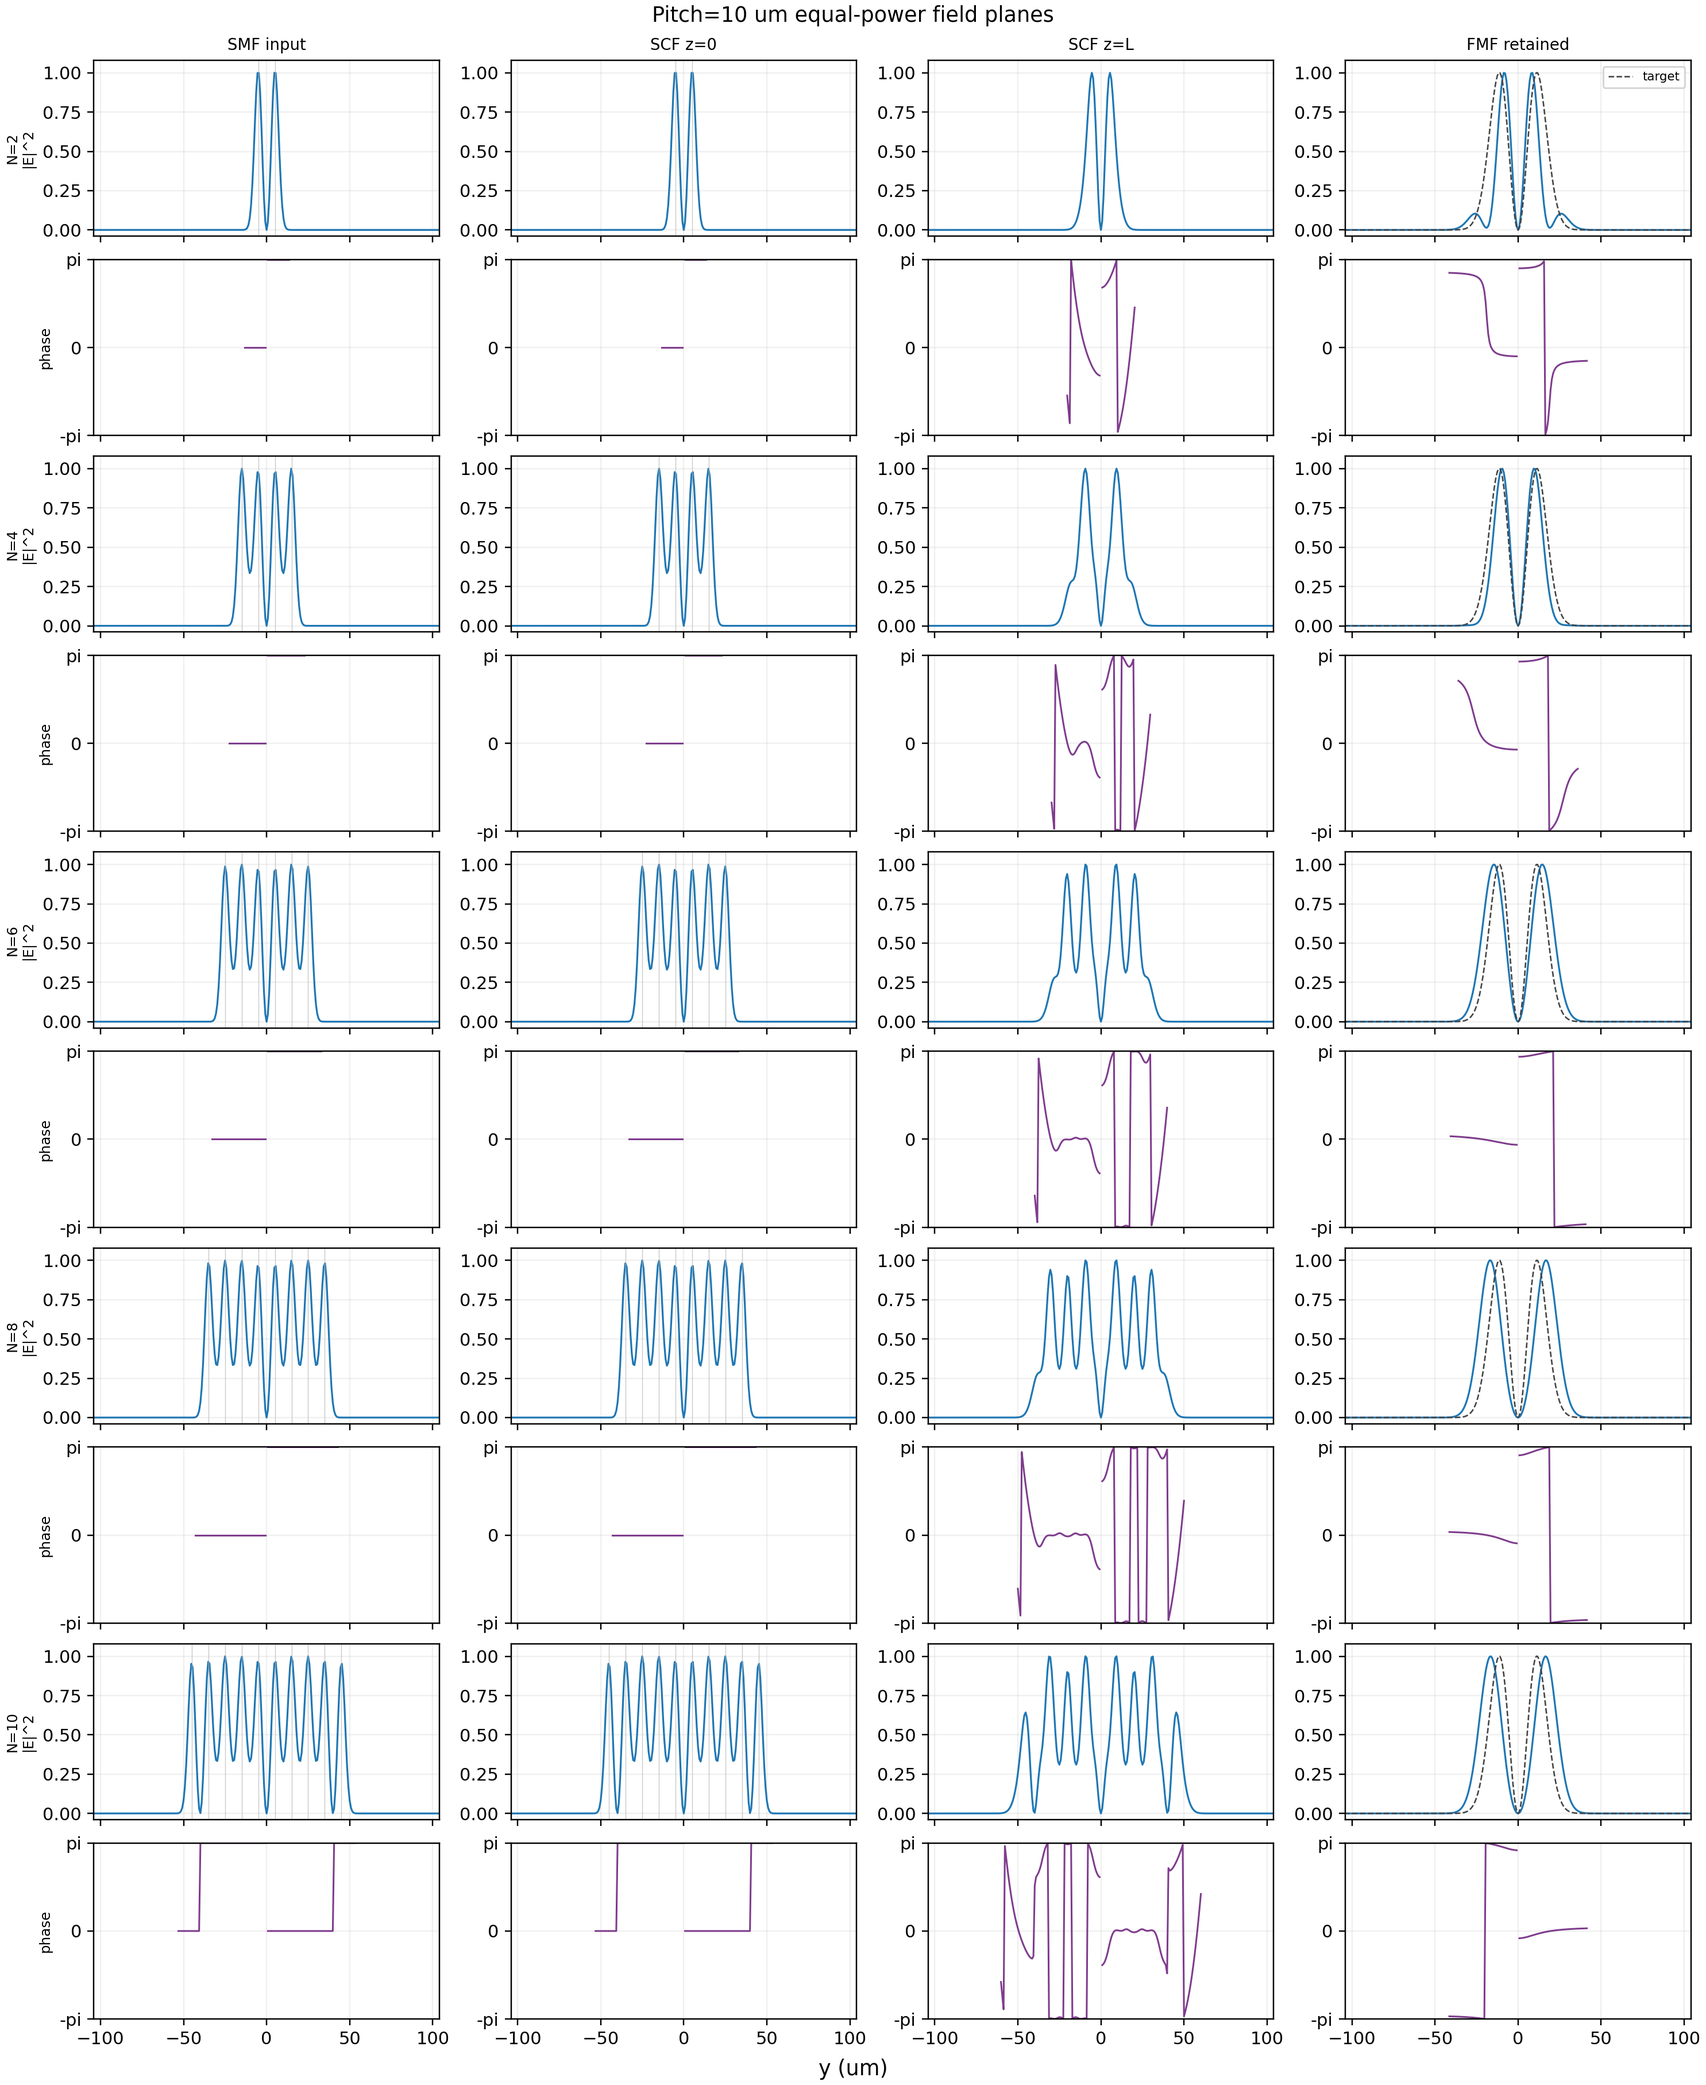
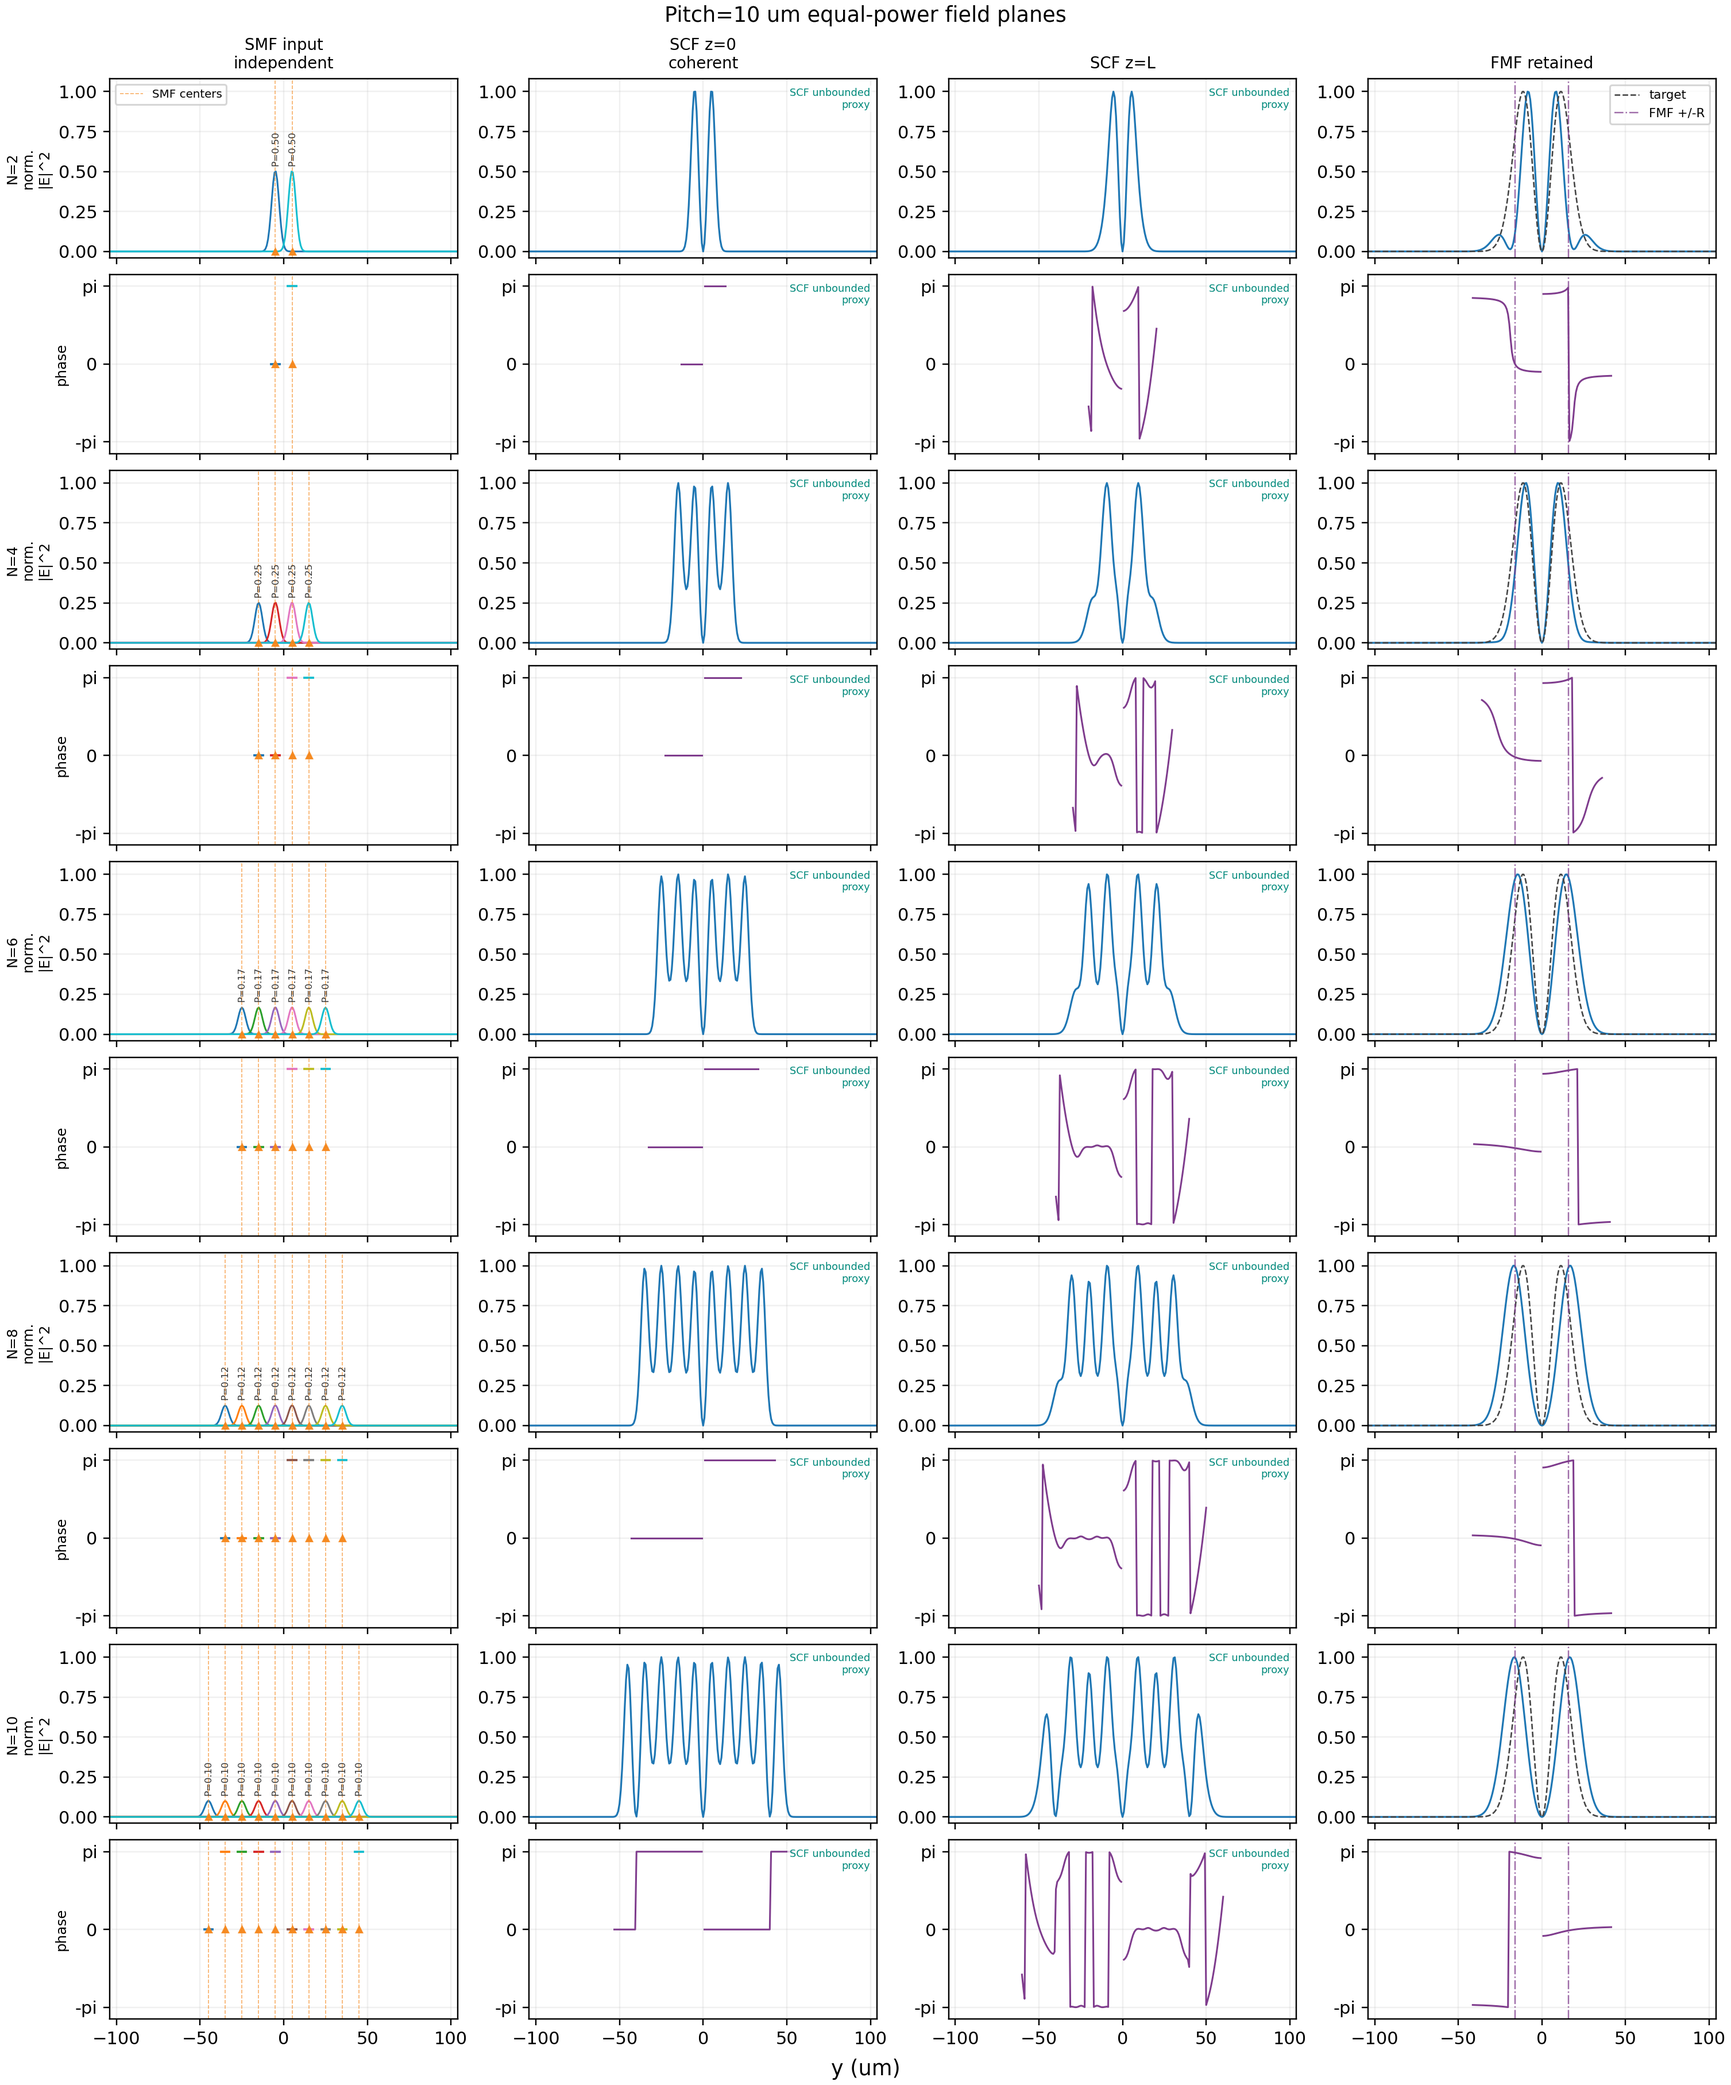
Add absolute-power binary-phase MMI field figures for Notion

Changed region(s): [[0.0, 0.0, 0.9912, 0.9961], [0.9603, 0.6537, 0.9912, 0.716]]

diff --git a/binary_phase_2d_mmi/2026-06-01/final_review/README.md b/binary_phase_2d_mmi/2026-06-01/final_review/README.md
@@ -3,6 +3,8 @@
 Public image assets for embedding in the Notion page:
 https://www.notion.so/3722f066c71681dca075f264775cc6e9
 
+The normalized field-plane figures are for shape comparison. The absolute-power figures plot power density with total coherent input power normalized to 1 in the scalar proxy.
+
 ## field_planes_pitch10_variable_by_count.png
 
 ![field_planes_pitch10_variable_by_count.png](https://raw.githubusercontent.com/bitzyc/scf-fmf-notion-assets/main/binary_phase_2d_mmi/2026-06-01/final_review/field_planes_pitch10_variable_by_count.png)
@@ -14,6 +16,18 @@ https://www.notion.so/3722f066c71681dca075f264775cc6e9
 ## field_planes_pitch30_vs_pitch10_variable.png
 
 ![field_planes_pitch30_vs_pitch10_variable.png](https://raw.githubusercontent.com/bitzyc/scf-fmf-notion-assets/main/binary_phase_2d_mmi/2026-06-01/final_review/field_planes_pitch30_vs_pitch10_variable.png)
+
+## field_planes_pitch10_variable_by_count_absolute_power.png
+
+![field_planes_pitch10_variable_by_count_absolute_power.png](https://raw.githubusercontent.com/bitzyc/scf-fmf-notion-assets/main/binary_phase_2d_mmi/2026-06-01/final_review/field_planes_pitch10_variable_by_count_absolute_power.png)
+
+## field_planes_pitch10_equal_by_count_absolute_power.png
+
+![field_planes_pitch10_equal_by_count_absolute_power.png](https://raw.githubusercontent.com/bitzyc/scf-fmf-notion-assets/main/binary_phase_2d_mmi/2026-06-01/final_review/field_planes_pitch10_equal_by_count_absolute_power.png)
+
+## field_planes_pitch30_vs_pitch10_variable_absolute_power.png
+
+![field_planes_pitch30_vs_pitch10_variable_absolute_power.png](https://raw.githubusercontent.com/bitzyc/scf-fmf-notion-assets/main/binary_phase_2d_mmi/2026-06-01/final_review/field_planes_pitch30_vs_pitch10_variable_absolute_power.png)
 
 ## scf_yz_intensity_pitch10_variable_by_count.png
 
